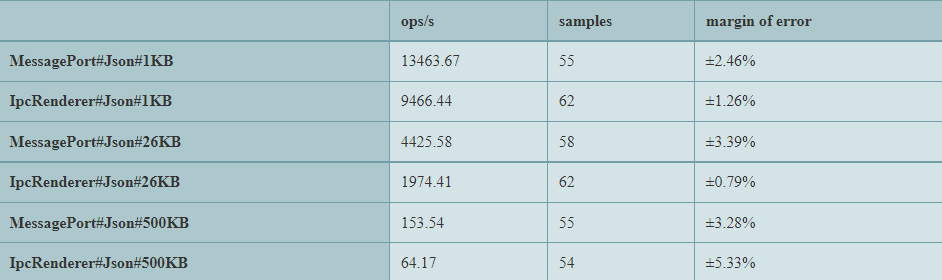
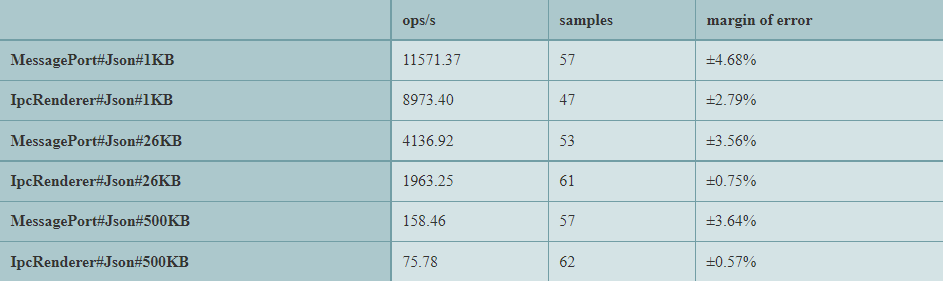
update read me with results

diff --git a/README.md b/README.md
@@ -1,6 +1,6 @@
 # Electron Ipc Tests
 
-Testing the latency and throughput of [MessagePort](https://www.electronjs.org/docs/latest/api/message-port-main) vs [IpcRenderer](https://www.electronjs.org/docs/latest/api/ipc-renderer) for inter-process communication. 
+Benchmark testing the latency and throughput of [MessagePort](https://www.electronjs.org/docs/latest/api/message-port-main) vs [IpcRenderer](https://www.electronjs.org/docs/latest/api/ipc-renderer) for inter-process communication. 
 
 ## How to run
 
@@ -16,32 +16,35 @@ pnpm start
 
 ## Interpreting Results
 
-Three tests will run and each will produce a chart. The format of the names on the left side of each chart is `[HowTheMessageWasSent]#[TypeOfMessage]#[SizeOfMessage]`. `op/s` is the number of operations the test ran per second (higher is better).  
-`MessagePort` - [MessagePort.postMessage](https://www.electronjs.org/docs/latest/tutorial/message-ports/#worker-process).  
-`MessagePortOptimized` - takes advantage of PostMessage API to [transfer the binary data instead of copying it](https://developer.mozilla.org/en-US/docs/Web/API/Worker/postMessage#syntax).  
-`IpcRenderer` - `ipcRenderer.invoke` or `ipcRenderer.send` (depending on the test)
+Three tests will run and each will produce a chart. The format of the names on the left side of each chart is `[HowTheMessageWasSent]#[MessageFormat]#[SizeOfMessage]`. `op/s` is the number of operations the test ran per second (higher is better). `Mb/s` is the number of Megabytes transferred per second. 
 
 ### Binary Latency Test
 
-The first test measures the latency sending a binary ([UInt8Array](https://developer.mozilla.org/en-US/docs/Web/JavaScript/Reference/Global_Objects/Uint8Array)) message of varying size round-trip (i.e., Renderer -> Backend -> Renderer, or `ipcRenderer.invoke`).
+The first test measures the time it takes to send a binary ([UInt8Array](https://developer.mozilla.org/en-US/docs/Web/JavaScript/Reference/Global_Objects/Uint8Array)) message round-trip (mimicking `ipcRenderer.invoke`, i.e., Process A -> Process B -> Process A).
+The test is repeated a number of times until an accurate measure is obtained.
 
 ![Binary Latency Test](img/latency_binary.png)
 
-Results: `MessagePortOptimized` is about 20% faster no matter the message size. `MessagePort` and `IpcRenderer` are pretty similar otherwise.
+Results: `MessagePort` is almost 40% faster than `IpcRenderer` for large binary payloads, but only 5-10% faster for smaller payloads.
 
 ### JSON Latency Test
 
-The second test measures the latency sending a json message of varying size round-trip (i.e., Renderer -> Backend -> Renderer, or `ipcRenderer.invoke`). JSON objects cannot be transferred like in the binary latency test.
+The second test is the same as the first but the payload type is a random JSON object instead of UInt8Array.
 
 ![Binary Latency Test](img/latency_json.png)
 
-Results: `MessagePort` is about twice as fast for larger messages and 50% faster for smaller messages.
+Results: `MessagePort` is significantly faster than `IpcRenderer` for all JSON payloads. The larger the payload, the greater the difference (more than twice as fast for payloads of 500 kb).
+
+**Side Note**: Notice how for the same sized payload (26 Kb), the `MessagePort` is about 30% faster sending binary rather than JSON. But for `IpcRenderer`, the difference is much greater &mdash; `IpcRenderer` is more than twice as fast sending binary data than JSON.
 
 ### Throughput
 
-The last test measures how fast the backend can send 512 MB to the frontend (i.e., Backend -> Renderer). All data is split up into 1 MB UInt8Array chunks. **I am not including the time it takes to create the data. Only the time it takes to go from A to B**.
+The last test measures how fast the backend can send data to the frontend one-way (i.e., Backend -> Renderer). All data is split up into 1 MB UInt8Array chunks. **I am not including the time it takes to create the data. Only the time it takes to go from A to B**.
+`MessagePortOptimized` - takes advantage of PostMessage API to [transfer the binary data instead of copying it](https://developer.mozilla.org/en-US/docs/Web/API/Worker/postMessage#syntax).  
+
 
 ![Binary Latency Test](img/throughput..png)
 
-Results: `MessagePort` is about 50% faster than `IpcRenderer`. `MessagePortOptimized` of course is the fastest.
-**Notice how the loading spinner seems to stutter a bit during the test, thats because the main process gets blocked while creating the data for the IpcRenderer.**
+Results: `MessagePort` is ~50% faster than `IpcRenderer` at sending binary data from backend to frontend. `MessagePortOptimized` of course is the fastest.
+
+**Side Note: Notice how the loading spinner seems to stutter a bit during the test, thats because the main process gets blocked while creating the data for the IpcRenderer.**
